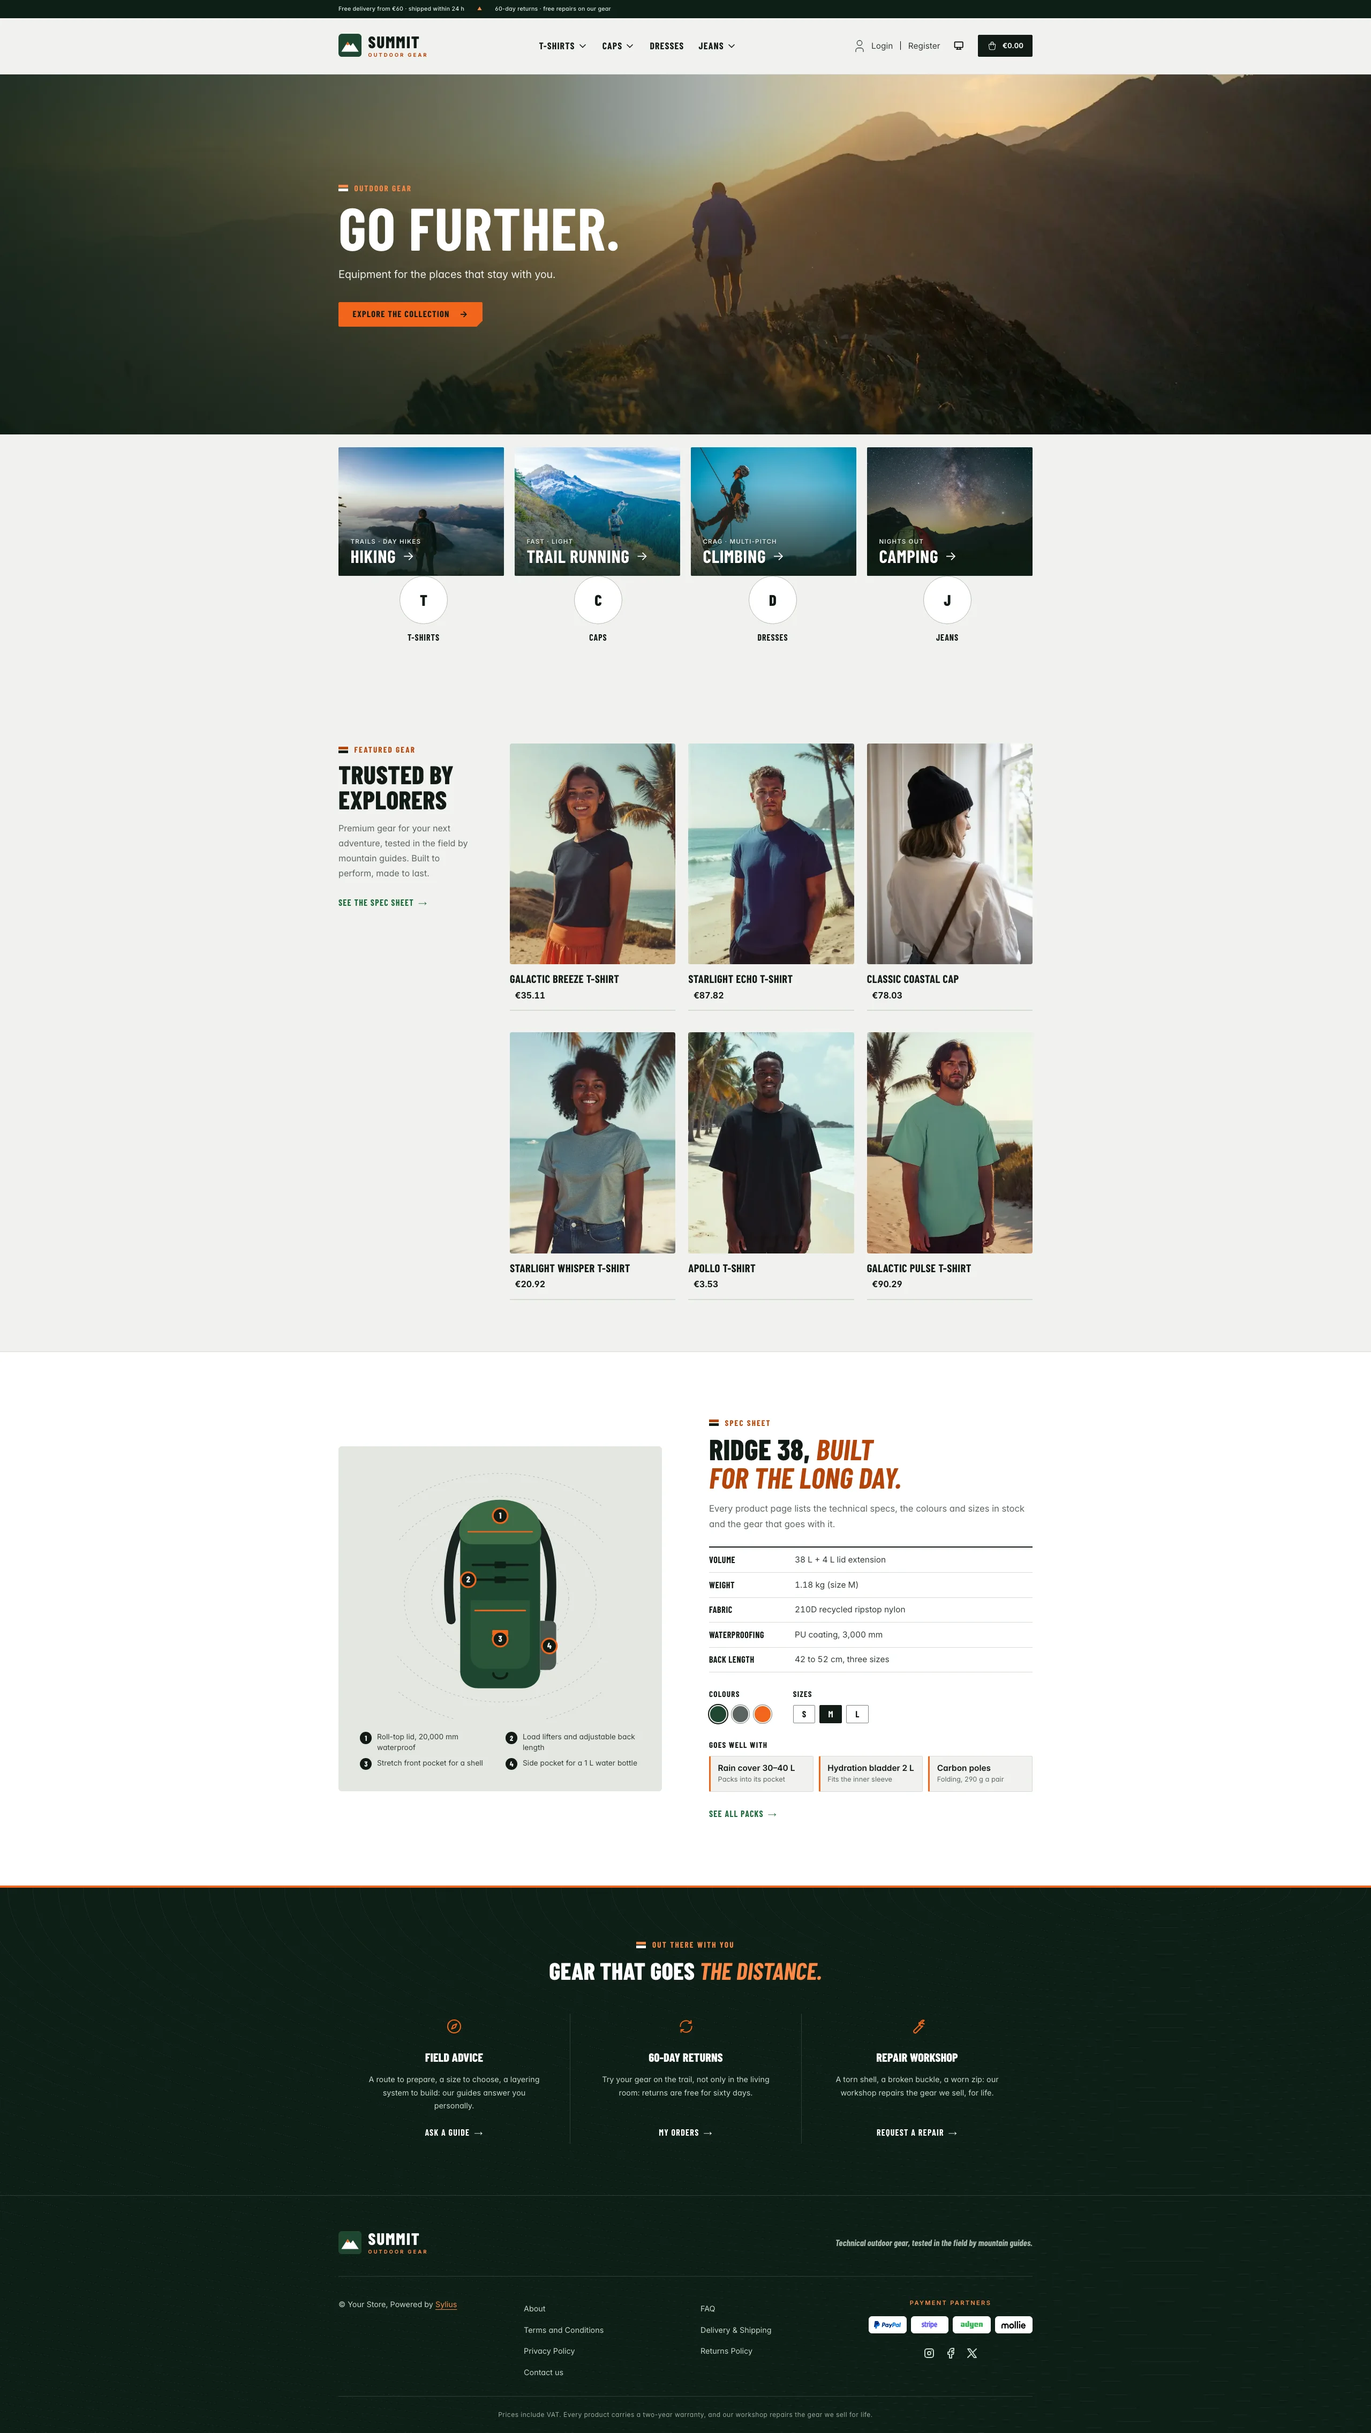
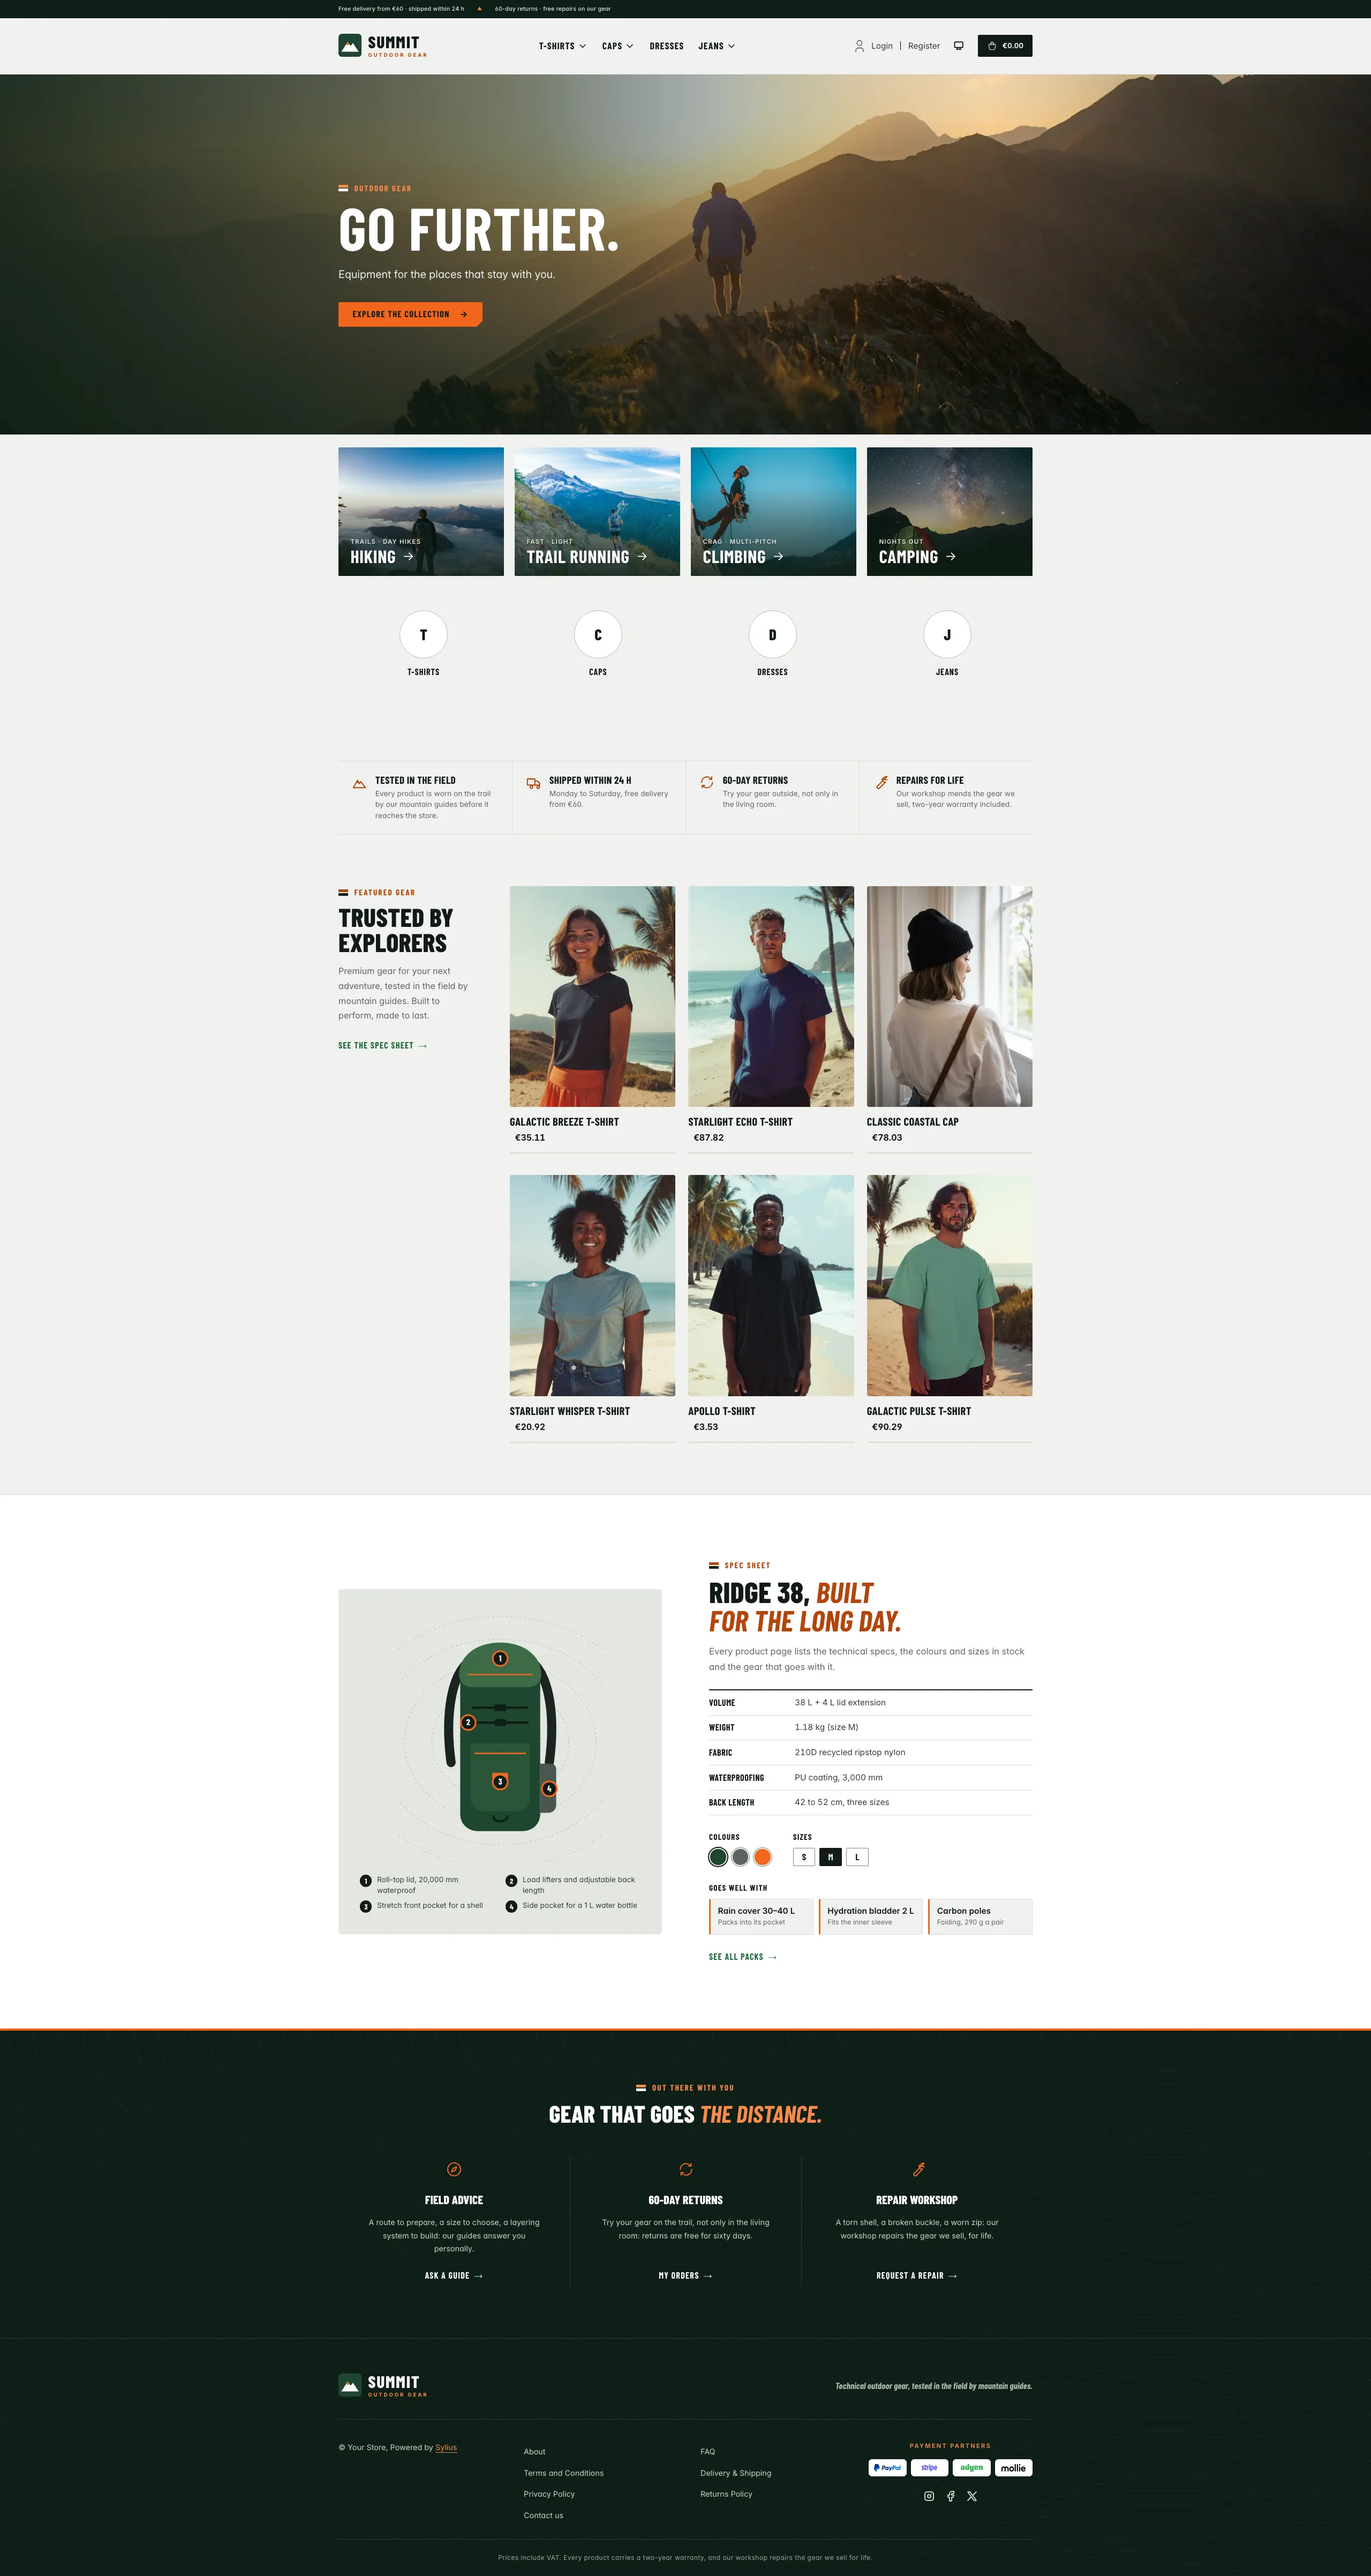
fix(themes): Render the Summit promise through the theme_promise hookable

diff --git a/src/Themes/resources/summit/assets/shop/styles/_sections.scss b/src/Themes/resources/summit/assets/shop/styles/_sections.scss
@@ -107,6 +107,64 @@
   }
 }
 
+// Promise: four commitments in a light band between two hairlines.
+
+.summit-promise {
+  margin-top: clamp(2.5rem, 5vw, 4rem);
+}
+
+.summit-promise__items {
+  display: grid;
+  grid-template-columns: repeat(4, minmax(0, 1fr));
+  margin: 0;
+  padding: 0;
+  border-block: 1px solid $line;
+  list-style: none;
+}
+
+.summit-promise__item {
+  display: flex;
+  align-items: flex-start;
+  gap: 0.9rem;
+  padding: 1.5rem clamp(0.75rem, 1.5vw, 1.5rem);
+
+  + .summit-promise__item {
+    border-left: 1px solid $line;
+  }
+
+  p {
+    margin: 0;
+  }
+
+  svg {
+    width: 1.9rem;
+    height: 1.9rem;
+    flex: 0 0 auto;
+    fill: none;
+    stroke: $signal-text;
+    stroke-linecap: round;
+    stroke-linejoin: round;
+    stroke-width: 1.6;
+  }
+}
+
+.summit-promise__name {
+  color: $heading;
+  font-family: $font-family-display;
+  font-size: 1.2rem;
+  font-weight: 700;
+  letter-spacing: 0.02em;
+  line-height: 1.1;
+  text-transform: uppercase;
+}
+
+.summit-promise__text {
+  margin-top: 0.3rem !important;
+  color: $text-muted;
+  font-size: 0.86rem;
+  line-height: 1.5;
+}
+
 // Featured gear: an editorial intro next to the latest products.
 
 .summit-products__layout {
@@ -375,6 +433,18 @@
 }
 
 @media (max-width: 991.98px) {
+  .summit-promise__items {
+    grid-template-columns: repeat(2, minmax(0, 1fr));
+  }
+
+  .summit-promise__item:nth-child(3) {
+    border-left: 0;
+  }
+
+  .summit-promise__item:nth-child(n + 3) {
+    border-top: 1px solid $line;
+  }
+
   .summit-activities__items {
     grid-template-columns: repeat(2, minmax(0, 1fr));
   }
@@ -396,6 +466,18 @@
 }
 
 @media (max-width: 575.98px) {
+  .summit-promise__items {
+    grid-template-columns: 1fr;
+  }
+
+  .summit-promise__item {
+    border-left: 0 !important;
+
+    + .summit-promise__item {
+      border-top: 1px solid $line;
+    }
+  }
+
   .summit-activity__link {
     min-height: 9.5rem;
     padding: 1rem;
@@ -428,7 +510,8 @@
   color: $signal-text !important;
 }
 
-.summit-hero + .container {
+.summit-hero + .container,
+.summit-activities + .container {
   margin-top: clamp(2.5rem, 5vw, 4rem);
 }
 

diff --git a/src/Themes/resources/summit/config/sylius/twig_hooks/shop/homepage/index.php b/src/Themes/resources/summit/config/sylius/twig_hooks/shop/homepage/index.php
@@ -18,6 +18,10 @@ return App::config([
                     'template' => 'shop/homepage/activities.html.twig',
                     'priority' => 280,
                 ],
+                'theme_promise' => [
+                    'template' => 'shop/homepage/promise.html.twig',
+                    'priority' => 150,
+                ],
                 'theme_gear' => [
                     'template' => 'shop/homepage/gear.html.twig',
                     'priority' => -50,

diff --git a/docs/themes/summit.md b/docs/themes/summit.md
@@ -51,7 +51,9 @@ navigation by activity, technical attributes, variants (colours and sizes) and a
 - **Homepage** — a full-bleed **photograph** (a hiker on a ridge at sunset), shaded on the copy side: an
   eyebrow, a condensed headline, a short lead and one orange call to action. Right under it, **shop by
   activity** (`theme_activities` hookable): four large photo tiles (hiking, trail running, climbing, camping),
-  each with its terrain, its name in capitals, an arrow and an orange rule on hover. Then the **featured gear**:
+  each with its terrain, its name in capitals, an arrow and an orange rule on hover. The promise block
+  (`theme_promise` hookable) lines up four commitments (field-tested, 24 h dispatch, 60-day returns, repairs
+  for life) in a light band. Then the **featured gear**:
   an editorial intro next to the six latest products, and the **gear spotlight** (`theme_gear` hookable): a
   technical backpack with numbered call-outs, its spec sheet, its colours and sizes, and the gear that goes
   with it. The deals and new collection blocks are hidden.
